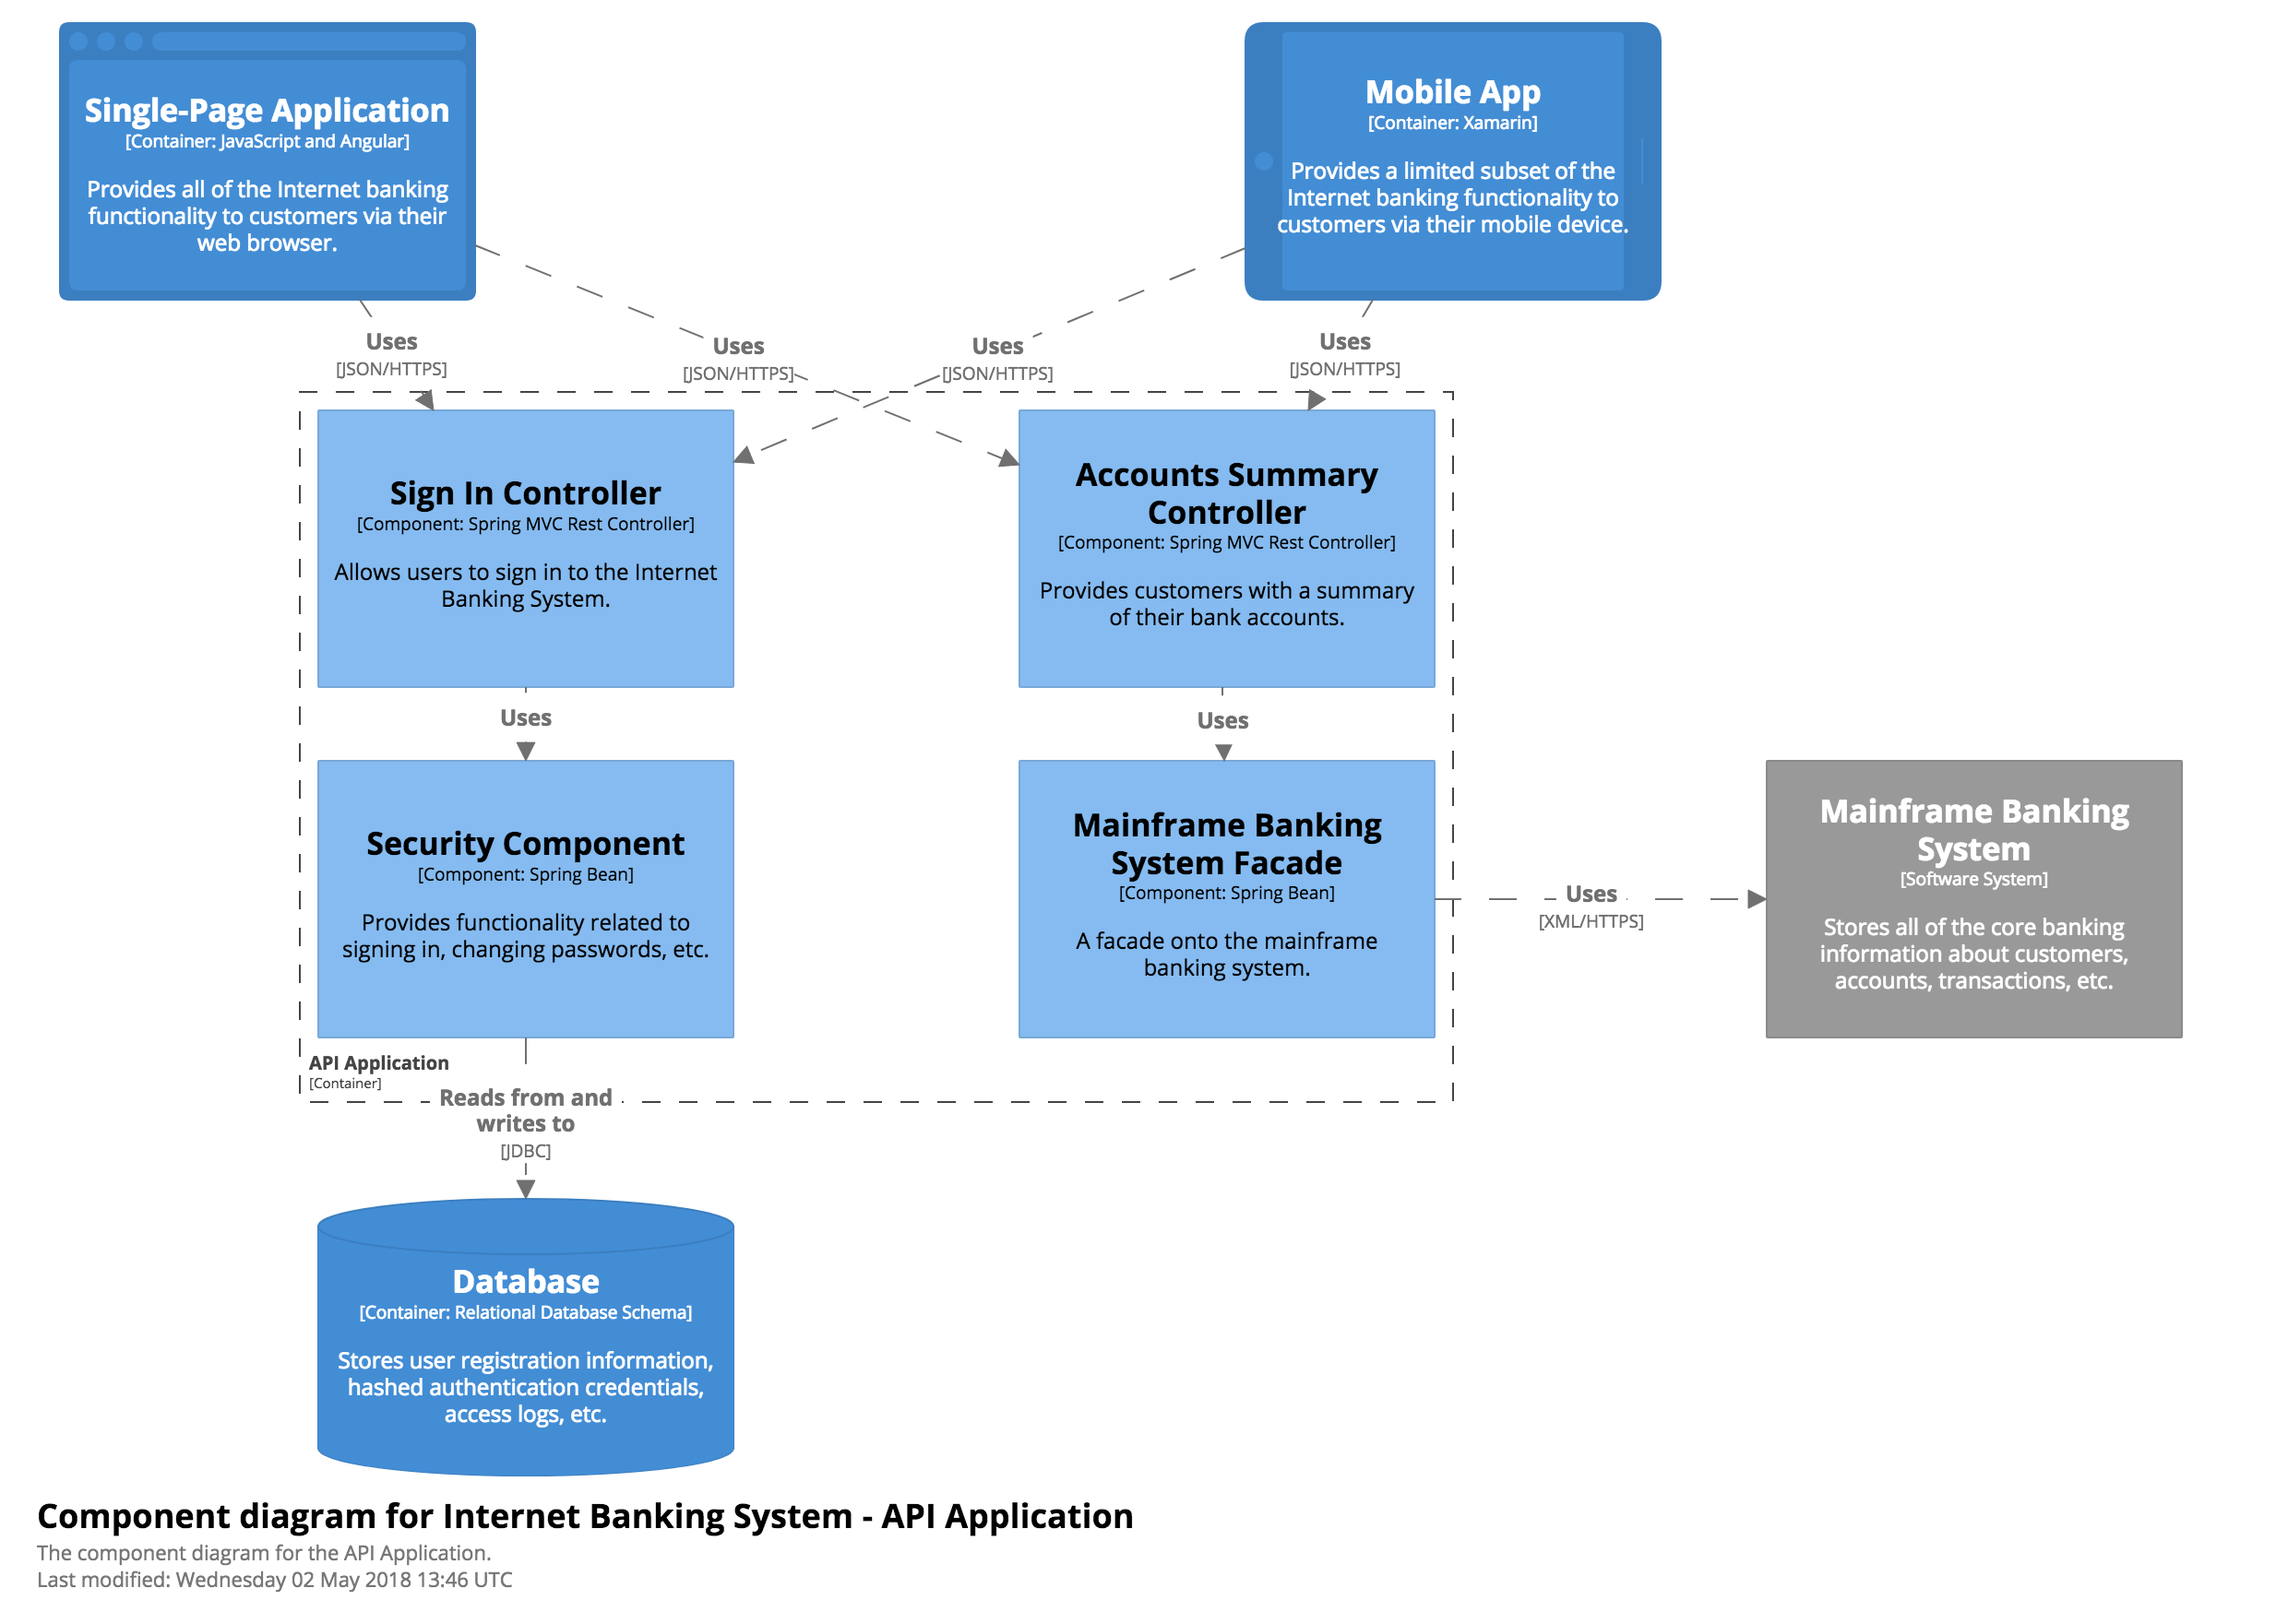
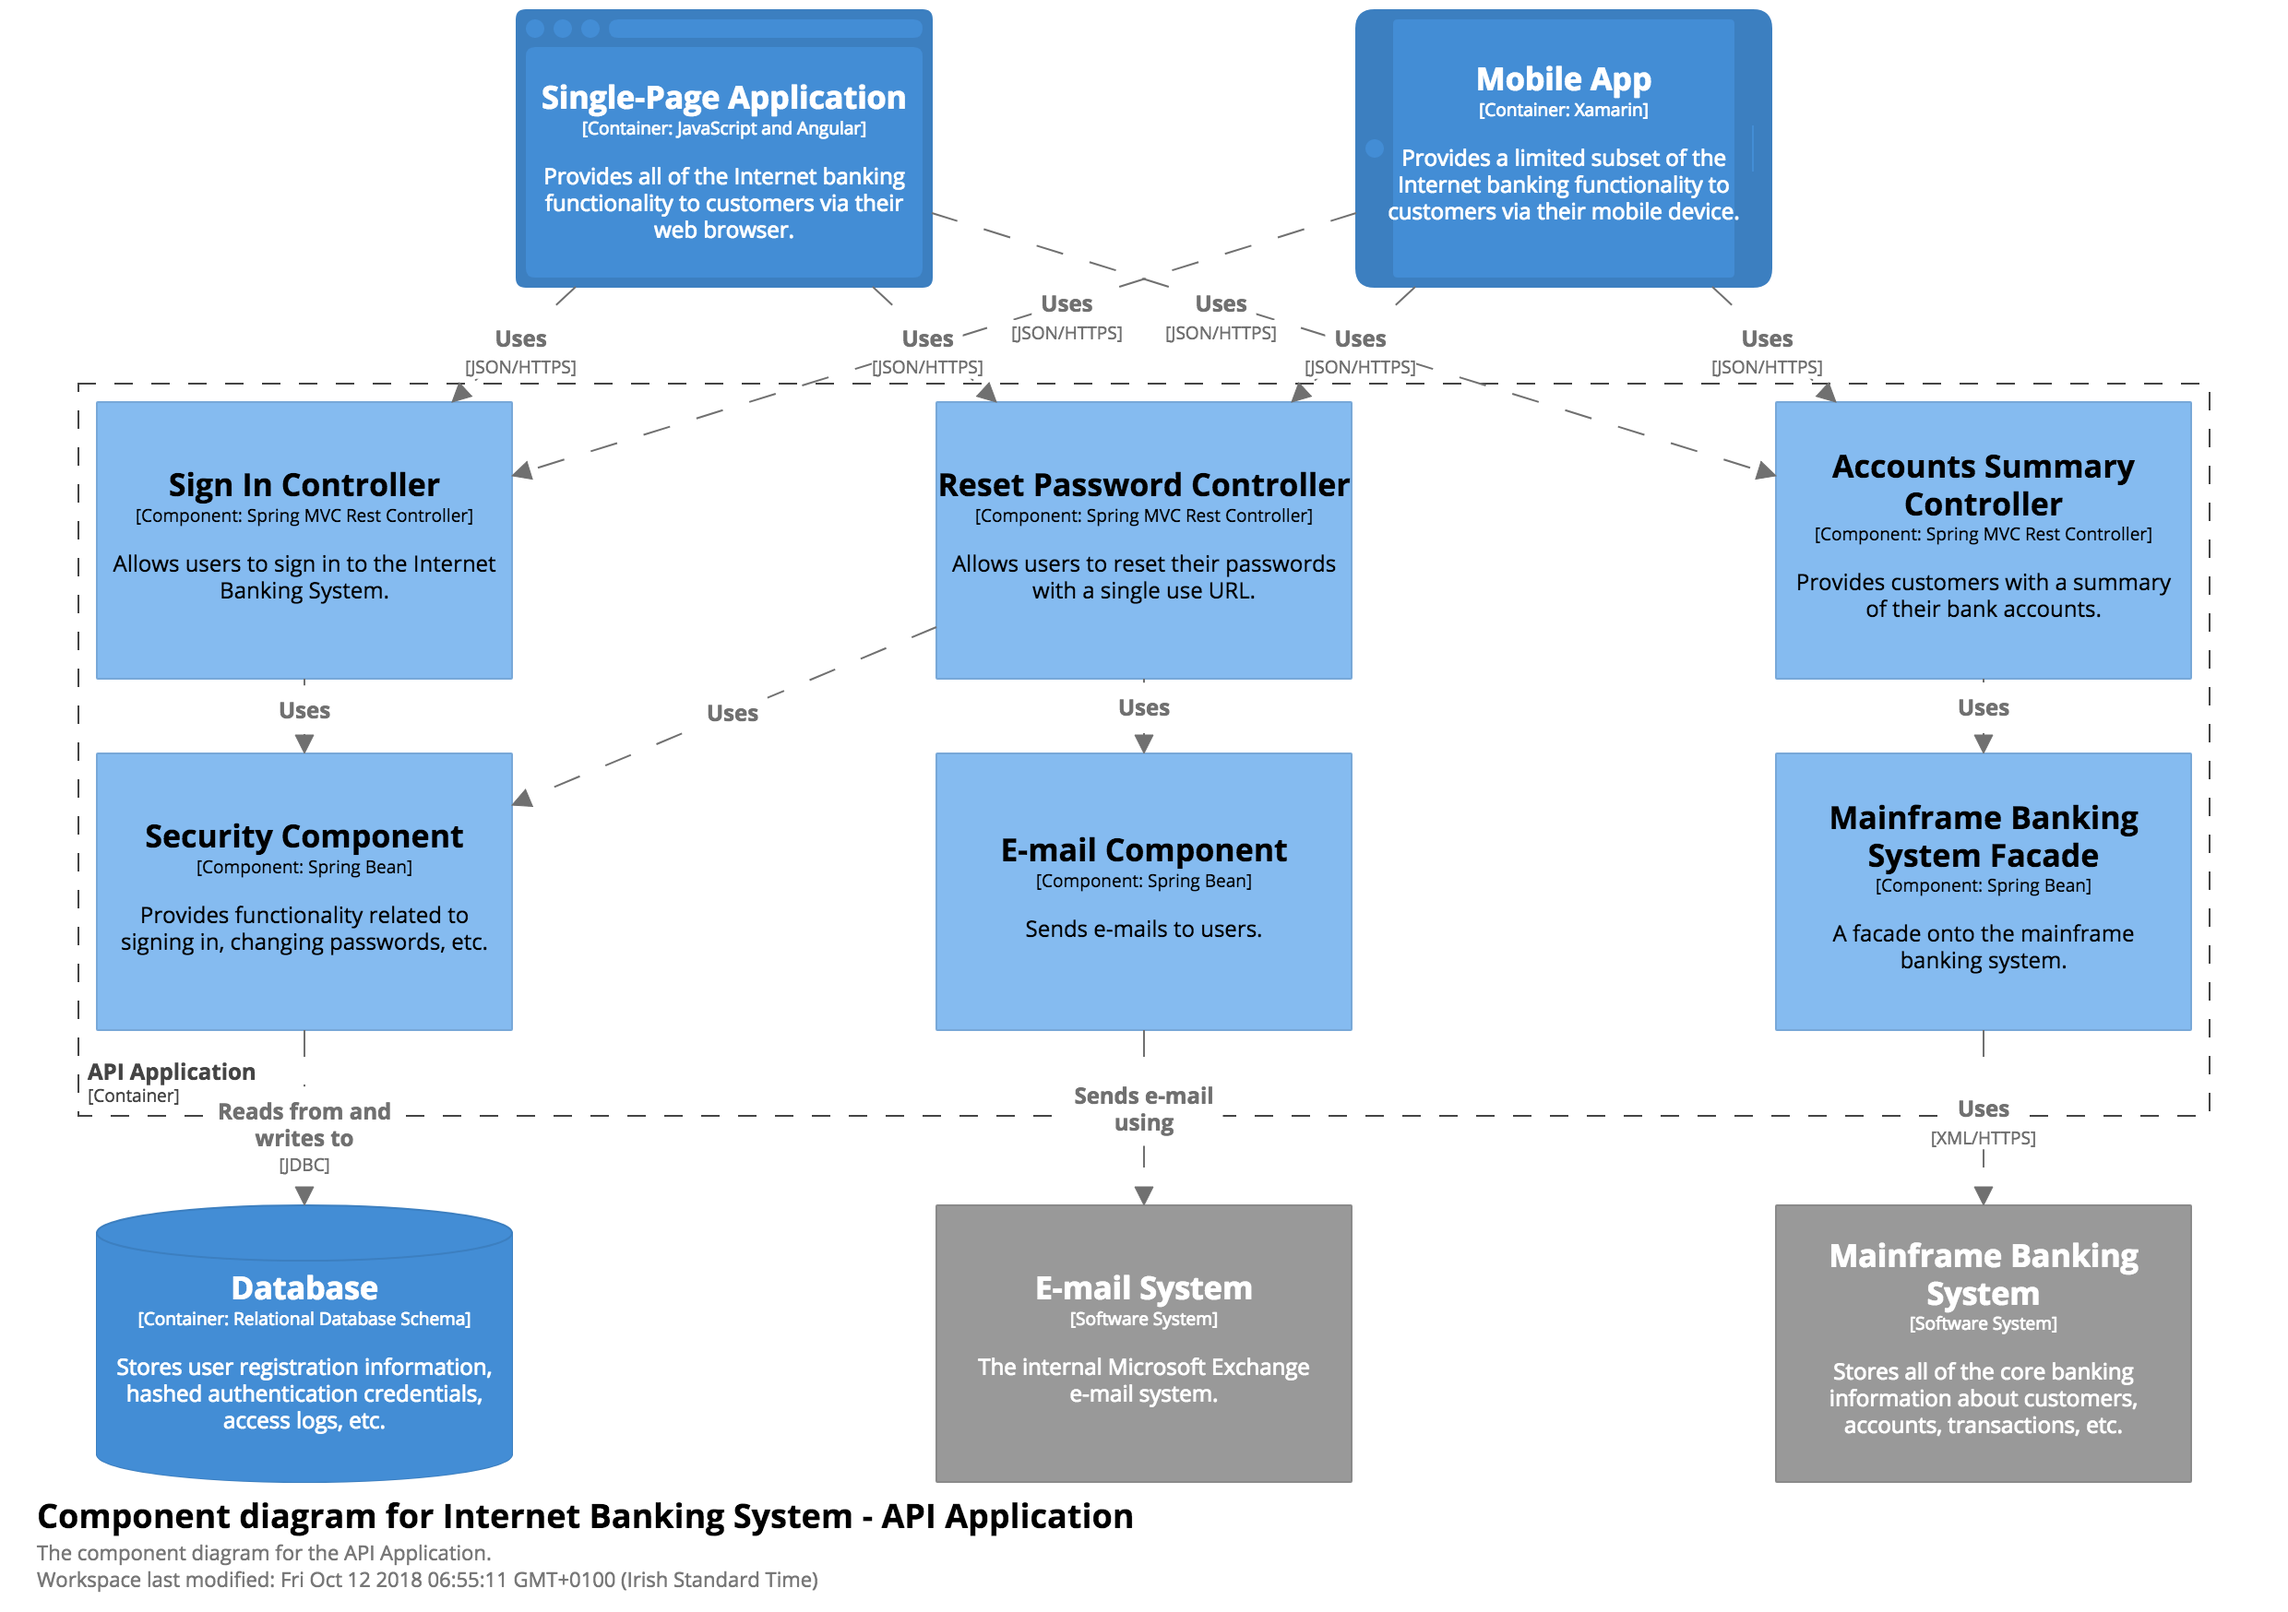
Updated the component diagram.

diff --git a/index.html b/index.html
@@ -1702,7 +1702,7 @@
             <div class="modal-body">
                 <p>
                     This is an example Component diagram for a fictional Internet Banking System, showing some (rather than all) of the components within the API Application.
-                    Here, there are two Spring MVC Rest Controllers providing access points for the JSON/HTTPS API, with each controller subsequently using other components to access data from the Database and Mainframe Banking System.
+                    Here, there are three Spring MVC Rest Controllers providing access points for the JSON/HTTPS API, with each controller subsequently using other components to access data from the Database and Mainframe Banking System, or send e-mails.
                 </p>       
                 <p>
                     <img src="./img/bigbankplc-Components.png" alt="A Component diagram" class="img-thumbnail" />
